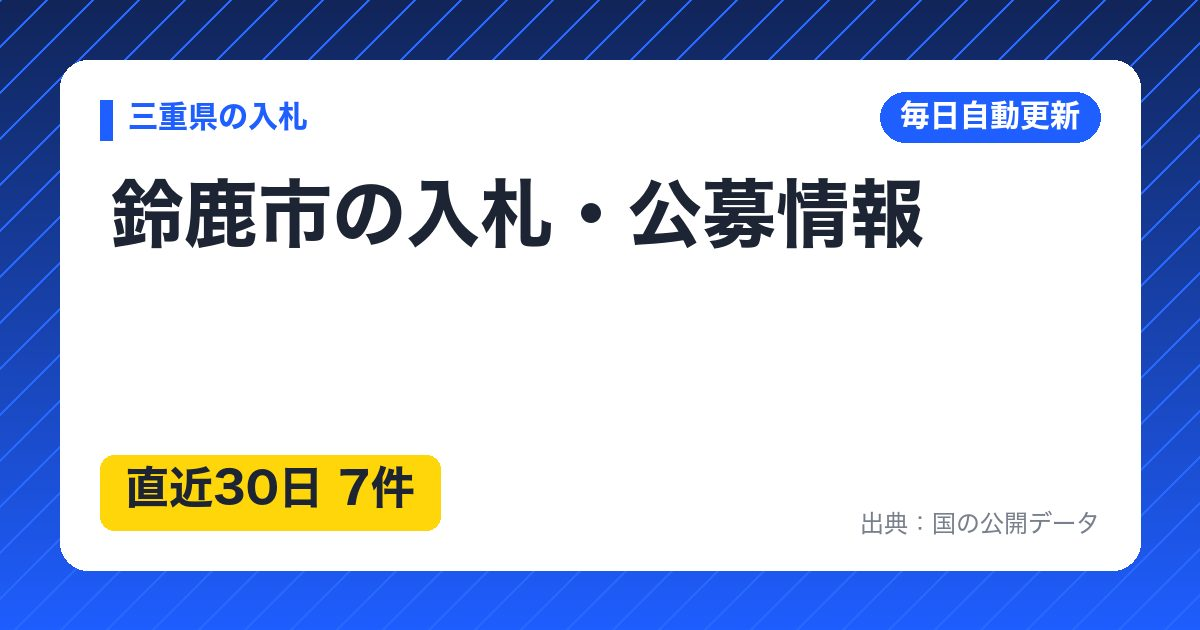
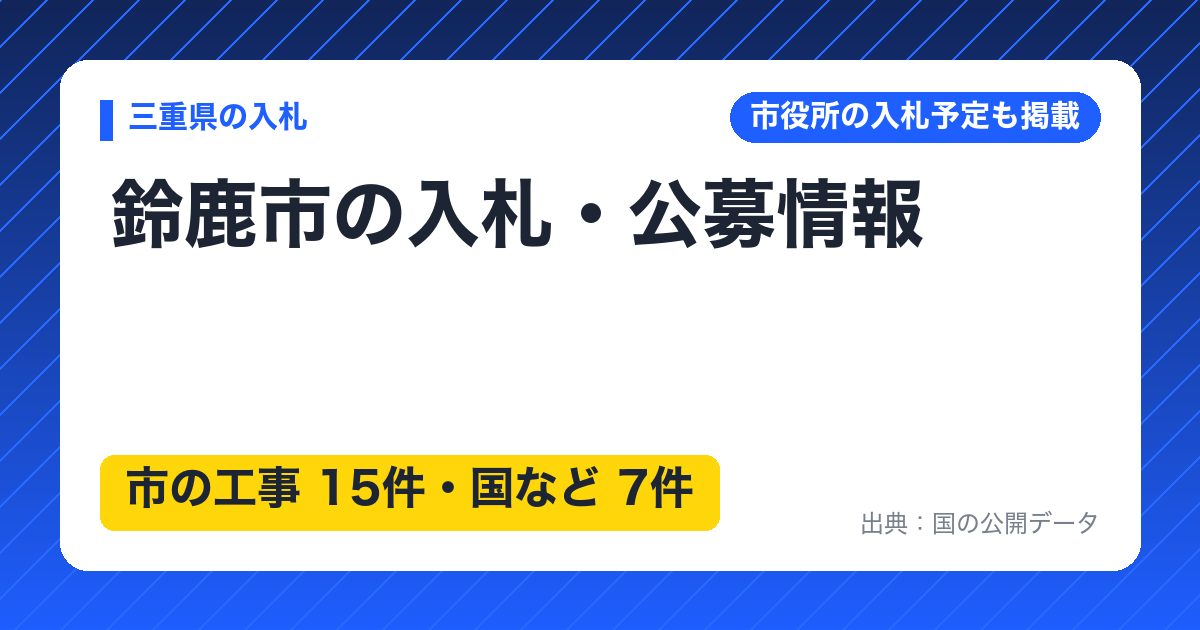
自動更新 2026-11-17 22:21

Changed region(s): [[0.0925, 0.6937, 0.6167, 0.8444], [0.5858, 0.1206, 0.925, 0.2413]]

diff --git a/c/mie_ebc4e813.html b/c/mie_ebc4e813.html
@@ -1,0 +1,40 @@
+<!doctype html><html lang="ja"><head><meta charset="utf-8"><meta name="viewport" content="width=device-width,initial-scale=1">
+<title>伊賀市の入札情報【毎日更新】三重県伊賀市の工事・物品・役務の公告一覧</title><meta name="description" content="三重県伊賀市で直近30日に公告された入札・公募0件の一覧。毎日自動更新。"><style>*{box-sizing:border-box}html,body{max-width:100%;overflow-x:hidden}main,.it,.ad,.box,footer,h1{overflow-wrap:anywhere}
+body{margin:0;background:#f6f7f9;color:#1d2433;font-family:-apple-system,"Hiragino Sans",sans-serif;line-height:1.6}
+main{max-width:860px;margin:auto;padding:18px}h1{font-size:22px;margin:6px 0}.sub{color:#5b6475;font-size:13px}
+nav a{display:inline-block;margin:4px 6px 4px 0;padding:4px 10px;background:#fff;border:1px solid #d8dde6;border-radius:16px;font-size:13px;color:#1d2433;text-decoration:none}
+nav a.on{background:#1f5eff;color:#fff;border-color:#1f5eff}
+h2{font-size:17px;margin:24px 0 8px;border-left:4px solid #1f5eff;padding-left:8px}
+.it{background:#fff;border:1px solid #e3e7ee;border-radius:10px;padding:10px 12px;margin:8px 0}
+.it a{color:#1d2433;font-weight:600;text-decoration:none}.it a:hover{text-decoration:underline}
+.meta{font-size:12px;color:#5b6475}.tag{display:inline-block;font-size:11px;padding:0 6px;border-radius:4px;margin-right:6px;color:#fff}
+.t工事{background:#e8590c}.t物品{background:#2b8a3e}.t役務{background:#1971c2}.tその他{background:#868e96}
+.sm{font-size:12px;color:#7a8394;margin-top:2px}.box{background:#fff;border:1px solid #e3e7ee;border-radius:10px;padding:12px 14px;font-size:13px}
+.ad{background:#fffbea;border:1px solid #f1e3a6;border-radius:10px;padding:10px 12px;margin:14px 0;font-size:13px}.ad b{font-size:11px;color:#8a6d00;margin-right:6px}.ad a{color:#0b5cad}.ad div{margin:4px 0}
+.hero{width:100%;height:auto;border-radius:12px;margin:6px 0 10px;display:block}.bn{text-align:center;margin:18px 0}.bnl{font-size:11px;color:#8a6d00;margin-bottom:4px}.bn img{max-width:100%;height:auto}
+footer{font-size:11px;color:#7a8394;margin:30px 0}</style><meta property="og:type" content="website"><meta property="og:title" content="伊賀市の入札情報【毎日更新】三重県伊賀市の工事・物品・役務の公告一覧"><meta property="og:description" content="三重県伊賀市で直近30日に公告された入札・公募0件の一覧。毎日自動更新。"><meta property="og:image" content="https://djyosk-bot.github.io/tokai-nyusatsu/c/mie_ebc4e813.jpg"><meta name="twitter:card" content="summary_large_image"><meta name="twitter:image" content="https://djyosk-bot.github.io/tokai-nyusatsu/c/mie_ebc4e813.jpg"></head><body><main>
+<div class="sub"><a href="../index.html">東海の入札まとめ</a> › <a href="../mie.html">三重県</a></div>
+<h1>伊賀市の入札・公募情報【毎日更新】</h1>
+<img class="hero" src="mie_ebc4e813.jpg" alt="伊賀市の入札" width="1200" height="630" loading="eager">
+<div class="sub">三重県伊賀市の入札情報（市役所の工事の入札予定＋国の機関などの公告）</div>
+<div class="ad"><b>広告</b>入札参加・技術者の配置に：<div>・<a href="https://px.a8.net/svt/ejp?a8mat=4BGNCK+DKSWFM+4ASS+64RJ6" rel="nofollow">施工管理技士の受験対策 通信講座（独学サポート事務局）</a> <img border="0" width="1" height="1" src="https://www14.a8.net/0.gif?a8mat=4BGNCK+DKSWFM+4ASS+64RJ6" alt="">（1級・2級の土木・建築・電気・管工事に対応）</div></div>
+<h2>伊賀市役所の入札予定（工事）15件</h2><div class="sub">出典：伊賀市 入札情報システム。入札日の近い順。詳細・設計図書は<a href="https://www.ep-bis.supercals.jp/ebidPPIPublish/EjPPIj?KikanNO=2421600" rel="nofollow noopener" target="_blank">伊賀市の入札情報システム</a>で確認してください。</div>
+<div class="it"><span class="tag t工事">工事</span><b>令和８年災害 Ｒ８国災第９９号 二級市町村道東高倉高旗線道路災害復旧工事</b><div class="meta">入札予定日 2026-11-20｜工事</div></div>
+<div class="it"><span class="tag t工事">工事</span><b>令和８年災害 Ｒ８国災第１０３号 二級市町村道東高倉高旗線道路災害復旧工事</b><div class="meta">入札予定日 2026-11-20｜工事</div></div>
+<div class="it"><span class="tag t工事">工事</span><b>令和８年度 臨時地方道整備事業（緊自債） 市道平田出後線舗装修繕工事</b><div class="meta">入札予定日 2026-11-20｜工事</div></div>
+<div class="it"><span class="tag t工事">工事</span><b>令和８年災害 Ｒ８国災第１０１号 その他市町村道米ノ川平線道路災害復旧工事</b><div class="meta">入札予定日 2026-11-20｜工事</div></div>
+<div class="it"><span class="tag t工事">工事</span><b>令和８年度 準用河川等整備事業（緊浚債）準用河川古野川浚渫工事</b><div class="meta">入札予定日 2026-11-20｜工事</div></div>
+<div class="it"><span class="tag t工事">工事</span><b>令和８年災 ２４－８ 広域農道（岡田工区）災害復旧工事</b><div class="meta">入札予定日 2026-11-20｜工事</div></div>
+<div class="it"><span class="tag t工事">工事</span><b>令和８年災 ２４－５ 滝谷用水路（槙山支線）災害復旧工事</b><div class="meta">入札予定日 2026-11-30｜工事</div></div>
+<div class="it"><span class="tag t工事">工事</span><b>令和８年災害Ｒ８国災第１００号 二級市町村道千貝土穴線道路災害復旧工事</b><div class="meta">入札予定日 2026-11-30｜工事</div></div>
+<div class="it"><span class="tag t工事">工事</span><b>令和８年度 準用河川等整備事業（緊浚債）準用河川森の前川浚渫工事</b><div class="meta">入札予定日 2026-11-30｜工事</div></div>
+<div class="it"><span class="tag t工事">工事</span><b>令和８年度 社会資本整備総合交付金事業 市道服部高畑寺田線道路改良工事</b><div class="meta">入札予定日 2026-11-30｜工事</div></div>
+<div class="it"><span class="tag t工事">工事</span><b>大山田Ｂ＆Ｇ海洋センタープール改修工事</b><div class="meta">入札予定日 2026-11-30｜工事</div></div>
+<div class="it"><span class="tag t工事">工事</span><b>伊賀市立上野総合市民病院本館２階医師更衣室改修工事</b><div class="meta">入札予定日 2026-11-30｜工事</div></div>
+<div class="it"><span class="tag t工事">工事</span><b>令和８年災 ２４－３ 滝谷用水路（水路橋）災害復旧工事</b><div class="meta">入札予定日 2026-11-30｜工事</div></div>
+<div class="it"><span class="tag t工事">工事</span><b>令和８年度 準用河川等整備事業（緊浚債）準用河川前川浚渫工事</b><div class="meta">入札予定日 2026-11-30｜工事</div></div>
+<div class="it"><span class="tag t工事">工事</span><b>令和８年度 伊賀市水道施設整備事業 消火栓新設工事（下柘植工区）</b><div class="meta">入札予定日 2026-12-01｜工事</div></div>
+<h2>国の機関などの入札（直近30日）0件</h2>
+<div class="bn"><div class="bnl">広告</div><a href="https://px.a8.net/svt/ejp?a8mat=4BGNCK+DKSWFM+4ASS+6D4GH" rel="nofollow"> <img border="0" width="300" height="250" alt="" src="https://www20.a8.net/svt/bgt?aid=261117236821&wid=001&eno=01&mid=s00000020062001069000&mc=1"></a> <img border="0" width="1" height="1" src="https://www12.a8.net/0.gif?a8mat=4BGNCK+DKSWFM+4ASS+6D4GH" alt=""></div>
+<footer>関連サイト：<a href="https://djyosk-bot.github.io/tokai-hojokin/">東海の補助金・助成金まとめ</a><br>最終更新 2026年11月17日 22:20（毎日自動更新）。出典：官公需情報ポータルサイト（中小企業庁）。掲載内容は要約です。当サイトはアフィリエイト広告（A8.net）を利用しています。入札参加の際は必ず発注機関の公告原文をご確認ください。</footer>
+</main></body></html>

diff --git a/c/mie_40a20bd2.html b/c/mie_40a20bd2.html
@@ -16,8 +16,25 @@ footer{font-size:11px;color:#7a8394;margin:30px 0}</style><meta property="og:typ
 <div class="sub"><a href="../index.html">東海の入札まとめ</a> › <a href="../mie.html">三重県</a></div>
 <h1>鈴鹿市の入札・公募情報【毎日更新】</h1>
 <img class="hero" src="mie_40a20bd2.jpg" alt="鈴鹿市の入札" width="1200" height="630" loading="eager">
-<div class="sub">三重県鈴鹿市で直近30日に公告された案件 7件</div>
+<div class="sub">三重県鈴鹿市の入札情報（市役所の工事の入札予定＋国の機関などの公告）</div>
 <div class="ad"><b>広告</b>入札参加・技術者の配置に：<div>・<a href="https://px.a8.net/svt/ejp?a8mat=4BGNCK+DKSWFM+4ASS+64RJ6" rel="nofollow">施工管理技士の受験対策 通信講座（独学サポート事務局）</a> <img border="0" width="1" height="1" src="https://www14.a8.net/0.gif?a8mat=4BGNCK+DKSWFM+4ASS+64RJ6" alt="">（1級・2級の土木・建築・電気・管工事に対応）</div></div>
+<h2>鈴鹿市役所の入札予定（工事）15件</h2><div class="sub">出典：鈴鹿市 入札情報システム。入札日の近い順。詳細・設計図書は<a href="https://www.ep-bis.supercals.jp/ebidPPIPublish/EjPPIj?KikanNO=2420700" rel="nofollow noopener" target="_blank">鈴鹿市の入札情報システム</a>で確認してください。</div>
+<div class="it"><span class="tag t工事">工事</span><b>徳居175号線舗装工事</b><div class="meta">入札予定日 2026-11-24｜事後審査｜予定価格（税別）13,224,000円</div></div>
+<div class="it"><span class="tag t工事">工事</span><b>一ノ宮15号線舗装工事</b><div class="meta">入札予定日 2026-11-24｜事後審査｜予定価格（税別）9,384,000円</div></div>
+<div class="it"><span class="tag t工事">工事</span><b>国府182号線舗装工事</b><div class="meta">入札予定日 2026-11-24｜事後審査｜予定価格（税別）9,306,000円</div></div>
+<div class="it"><span class="tag t工事">工事</span><b>三畑82号線舗装工事</b><div class="meta">入札予定日 2026-11-24｜事後審査｜予定価格（税別）6,169,000円</div></div>
+<div class="it"><span class="tag t工事">工事</span><b>平田公園管理施設整備工事</b><div class="meta">入札予定日 2026-11-24｜事後審査｜予定価格（税別）5,639,000円</div></div>
+<div class="it"><span class="tag t工事">工事</span><b>寺家二丁目公園外管理施設整備工事</b><div class="meta">入札予定日 2026-11-24｜事後審査｜予定価格（税別）4,738,000円</div></div>
+<div class="it"><span class="tag t工事">工事</span><b>西庄内157号線道路改良工事</b><div class="meta">入札予定日 2026-11-24｜事後審査｜予定価格（税別）4,532,000円</div></div>
+<div class="it"><span class="tag t工事">工事</span><b>市役所本庁舎市民ロビー耐火塗装改修工事</b><div class="meta">入札予定日 2026-11-24｜事後審査｜予定価格（税別）3,169,000円</div></div>
+<div class="it"><span class="tag t工事">工事</span><b>磯山配水管移設工事</b><div class="meta">入札予定日 2026-11-24｜事後審査｜予定価格（税別）36,500,000円</div></div>
+<div class="it"><span class="tag t工事">工事</span><b>岸岡配水管布設工事その２</b><div class="meta">入札予定日 2026-11-24｜事後審査｜予定価格（税別）4,400,000円</div></div>
+<div class="it"><span class="tag t工事">工事</span><b>一ノ宮配水管移設工事</b><div class="meta">入札予定日 2026-11-24｜事後審査｜予定価格（税別）3,300,000円</div></div>
+<div class="it"><span class="tag t工事">工事</span><b>平田東町外配水管布設工事</b><div class="meta">入札予定日 2026-11-24｜事後審査｜予定価格（税別）15,150,000円</div></div>
+<div class="it"><span class="tag t工事">工事</span><b>神戸六丁目52号線舗装工事</b><div class="meta">入札予定日 2026-11-30｜事後審査｜予定価格（税別）14,072,000円</div></div>
+<div class="it"><span class="tag t工事">工事</span><b>平田一丁目180号線舗装工事</b><div class="meta">入札予定日 2026-11-30｜事後審査｜予定価格（税別）6,495,000円</div></div>
+<div class="it"><span class="tag t工事">工事</span><b>箕田公民館外非常用放送設備設置工事</b><div class="meta">入札予定日 2026-11-30｜事後審査｜予定価格（税別）5,387,000円</div></div>
+<h2>国の機関などの入札（直近30日）7件</h2>
 <div class="it"><span class="tag tその他">その他</span><a href="https://www.suzuka-ct.ac.jp/uploads/2026/11/d8520ff3c9cdb669792cb6230d7d8a4a.pdf" rel="nofollow noopener" target="_blank">鈴鹿工業高等専門学校校舎地区及び学寮地区で使用する電気</a><div class="meta">独立行政法人国立高等専門学校機構鈴鹿工業高等専門学校｜公告 2026-11-16</div></div>
 <div class="it"><span class="tag tその他">その他</span><a href="https://suzuka.hosp.go.jp/pdf/koukoku_20261113_bedclothes.pdf" rel="nofollow noopener" target="_blank">寝具類賃貸借 一式</a><div class="meta">独立行政法人国立病院機構鈴鹿病院｜公告 2026-11-13</div></div>
 <div class="it"><span class="tag tその他">その他</span><a href="https://suzuka.hosp.go.jp/pdf/koukoku_20261113_cleaning.pdf" rel="nofollow noopener" target="_blank">院内清掃業務 一式</a><div class="meta">独立行政法人国立病院機構鈴鹿病院｜公告 2026-11-13</div></div>
@@ -26,5 +43,5 @@ footer{font-size:11px;color:#7a8394;margin:30px 0}</style><meta property="og:typ
 <div class="it"><span class="tag t役務">役務</span><a href="https://suzuka.hosp.go.jp/pdf/koukoku_20261026_medical-business.pdf" rel="nofollow noopener" target="_blank">医事業務委託</a><div class="meta">独立行政法人国立病院機構鈴鹿病院｜公告 2026-10-26</div></div>
 <div class="it"><span class="tag t役務">役務</span><a href="https://suzuka.hosp.go.jp/pdf/koukoku_20261020_boiler.pdf" rel="nofollow noopener" target="_blank">ボイラー業務委託</a><div class="meta">独立行政法人国立病院機構鈴鹿病院｜公告 2026-10-20</div></div>
 <div class="bn"><div class="bnl">広告</div><a href="https://px.a8.net/svt/ejp?a8mat=4BGNCK+DKSWFM+4ASS+6D4GH" rel="nofollow"> <img border="0" width="300" height="250" alt="" src="https://www20.a8.net/svt/bgt?aid=261117236821&wid=001&eno=01&mid=s00000020062001069000&mc=1"></a> <img border="0" width="1" height="1" src="https://www12.a8.net/0.gif?a8mat=4BGNCK+DKSWFM+4ASS+6D4GH" alt=""></div>
-<footer>関連サイト：<a href="https://djyosk-bot.github.io/tokai-hojokin/">東海の補助金・助成金まとめ</a><br>最終更新 2026年11月17日 22:08（毎日自動更新）。出典：官公需情報ポータルサイト（中小企業庁）。掲載内容は要約です。当サイトはアフィリエイト広告（A8.net）を利用しています。入札参加の際は必ず発注機関の公告原文をご確認ください。</footer>
+<footer>関連サイト：<a href="https://djyosk-bot.github.io/tokai-hojokin/">東海の補助金・助成金まとめ</a><br>最終更新 2026年11月17日 22:20（毎日自動更新）。出典：官公需情報ポータルサイト（中小企業庁）。掲載内容は要約です。当サイトはアフィリエイト広告（A8.net）を利用しています。入札参加の際は必ず発注機関の公告原文をご確認ください。</footer>
 </main></body></html>

diff --git a/c/mie_250c78e9.html b/c/mie_250c78e9.html
@@ -1,0 +1,27 @@
+<!doctype html><html lang="ja"><head><meta charset="utf-8"><meta name="viewport" content="width=device-width,initial-scale=1">
+<title>名張市の入札情報【毎日更新】三重県名張市の工事・物品・役務の公告一覧</title><meta name="description" content="三重県名張市で直近30日に公告された入札・公募0件の一覧。毎日自動更新。"><style>*{box-sizing:border-box}html,body{max-width:100%;overflow-x:hidden}main,.it,.ad,.box,footer,h1{overflow-wrap:anywhere}
+body{margin:0;background:#f6f7f9;color:#1d2433;font-family:-apple-system,"Hiragino Sans",sans-serif;line-height:1.6}
+main{max-width:860px;margin:auto;padding:18px}h1{font-size:22px;margin:6px 0}.sub{color:#5b6475;font-size:13px}
+nav a{display:inline-block;margin:4px 6px 4px 0;padding:4px 10px;background:#fff;border:1px solid #d8dde6;border-radius:16px;font-size:13px;color:#1d2433;text-decoration:none}
+nav a.on{background:#1f5eff;color:#fff;border-color:#1f5eff}
+h2{font-size:17px;margin:24px 0 8px;border-left:4px solid #1f5eff;padding-left:8px}
+.it{background:#fff;border:1px solid #e3e7ee;border-radius:10px;padding:10px 12px;margin:8px 0}
+.it a{color:#1d2433;font-weight:600;text-decoration:none}.it a:hover{text-decoration:underline}
+.meta{font-size:12px;color:#5b6475}.tag{display:inline-block;font-size:11px;padding:0 6px;border-radius:4px;margin-right:6px;color:#fff}
+.t工事{background:#e8590c}.t物品{background:#2b8a3e}.t役務{background:#1971c2}.tその他{background:#868e96}
+.sm{font-size:12px;color:#7a8394;margin-top:2px}.box{background:#fff;border:1px solid #e3e7ee;border-radius:10px;padding:12px 14px;font-size:13px}
+.ad{background:#fffbea;border:1px solid #f1e3a6;border-radius:10px;padding:10px 12px;margin:14px 0;font-size:13px}.ad b{font-size:11px;color:#8a6d00;margin-right:6px}.ad a{color:#0b5cad}.ad div{margin:4px 0}
+.hero{width:100%;height:auto;border-radius:12px;margin:6px 0 10px;display:block}.bn{text-align:center;margin:18px 0}.bnl{font-size:11px;color:#8a6d00;margin-bottom:4px}.bn img{max-width:100%;height:auto}
+footer{font-size:11px;color:#7a8394;margin:30px 0}</style><meta property="og:type" content="website"><meta property="og:title" content="名張市の入札情報【毎日更新】三重県名張市の工事・物品・役務の公告一覧"><meta property="og:description" content="三重県名張市で直近30日に公告された入札・公募0件の一覧。毎日自動更新。"><meta property="og:image" content="https://djyosk-bot.github.io/tokai-nyusatsu/c/mie_250c78e9.jpg"><meta name="twitter:card" content="summary_large_image"><meta name="twitter:image" content="https://djyosk-bot.github.io/tokai-nyusatsu/c/mie_250c78e9.jpg"></head><body><main>
+<div class="sub"><a href="../index.html">東海の入札まとめ</a> › <a href="../mie.html">三重県</a></div>
+<h1>名張市の入札・公募情報【毎日更新】</h1>
+<img class="hero" src="mie_250c78e9.jpg" alt="名張市の入札" width="1200" height="630" loading="eager">
+<div class="sub">三重県名張市の入札情報（市役所の工事の入札予定＋国の機関などの公告）</div>
+<div class="ad"><b>広告</b>入札参加・技術者の配置に：<div>・<a href="https://px.a8.net/svt/ejp?a8mat=4BGNCK+DKSWFM+4ASS+64RJ6" rel="nofollow">施工管理技士の受験対策 通信講座（独学サポート事務局）</a> <img border="0" width="1" height="1" src="https://www14.a8.net/0.gif?a8mat=4BGNCK+DKSWFM+4ASS+64RJ6" alt="">（1級・2級の土木・建築・電気・管工事に対応）</div></div>
+<h2>名張市役所の入札予定（工事）2件</h2><div class="sub">出典：名張市 入札情報システム。入札日の近い順。詳細・設計図書は<a href="https://www.ep-bis.supercals.jp/ebidPPIPublish/EjPPIj?KikanNO=2420800" rel="nofollow noopener" target="_blank">名張市の入札情報システム</a>で確認してください。</div>
+<div class="it"><span class="tag t工事">工事</span><b>石倉井堰改修工事</b><div class="meta">入札予定日 2026-11-26｜一般競争｜予定価格（税別）7,506,000円</div></div>
+<div class="it"><span class="tag t工事">工事</span><b>国道368号道路改良工事に伴う配水管移設工事</b><div class="meta">入札予定日 2026-11-26｜一般競争｜予定価格（税別）9,568,000円</div></div>
+<h2>国の機関などの入札（直近30日）0件</h2>
+<div class="bn"><div class="bnl">広告</div><a href="https://px.a8.net/svt/ejp?a8mat=4BGNCK+DKSWFM+4ASS+6D4GH" rel="nofollow"> <img border="0" width="300" height="250" alt="" src="https://www20.a8.net/svt/bgt?aid=261117236821&wid=001&eno=01&mid=s00000020062001069000&mc=1"></a> <img border="0" width="1" height="1" src="https://www12.a8.net/0.gif?a8mat=4BGNCK+DKSWFM+4ASS+6D4GH" alt=""></div>
+<footer>関連サイト：<a href="https://djyosk-bot.github.io/tokai-hojokin/">東海の補助金・助成金まとめ</a><br>最終更新 2026年11月17日 22:20（毎日自動更新）。出典：官公需情報ポータルサイト（中小企業庁）。掲載内容は要約です。当サイトはアフィリエイト広告（A8.net）を利用しています。入札参加の際は必ず発注機関の公告原文をご確認ください。</footer>
+</main></body></html>

diff --git a/mie.html b/mie.html
@@ -17,7 +17,7 @@ footer{font-size:11px;color:#7a8394;margin:30px 0}</style><meta property="og:typ
 <img class="hero" src="og/mie.jpg" alt="三重県の入札" width="1200" height="630" loading="eager">
 <div class="sub">直近30日に公告された案件 64件（工事 13／物品 2／役務 14）</div>
 <nav><a href="mie.html" class=on>三重県</a><a href="aichi.html">愛知県</a><a href="gifu.html">岐阜県</a><a href="shizuoka.html">静岡県</a></nav>
-<div class="box">市町村別：<a href="c/mie_5d42512f.html">津市(24)</a>、<a href="c/mie_40a20bd2.html">鈴鹿市(7)</a>、<a href="c/mie_5939b5a9.html">尾鷲市(6)</a>、<a href="c/mie_feebc0e6.html">桑名市(5)</a>、<a href="c/mie_abe04227.html">志摩市(5)</a>、<a href="c/mie_4076c049.html">木曾岬町(4)</a>、<a href="c/mie_54257b0b.html">亀山市(2)</a></div>
+<div class="box">市町村別：<a href="c/mie_5d42512f.html">津市(24)</a>、<a href="c/mie_40a20bd2.html">鈴鹿市(22)</a>、<a href="c/mie_5939b5a9.html">尾鷲市(6)</a>、<a href="c/mie_feebc0e6.html">桑名市(5)</a>、<a href="c/mie_abe04227.html">志摩市(5)</a>、<a href="c/mie_4076c049.html">木曾岬町(4)</a>、<a href="c/mie_54257b0b.html">亀山市(2)</a>、<a href="c/mie_250c78e9.html">名張市(2)</a>、<a href="c/mie_ebc4e813.html">伊賀市(15)</a></div>
 <div class="ad"><b>広告</b>入札参加・技術者の配置に：<div>・<a href="https://px.a8.net/svt/ejp?a8mat=4BGNCK+DKSWFM+4ASS+64RJ6" rel="nofollow">施工管理技士の受験対策 通信講座（独学サポート事務局）</a> <img border="0" width="1" height="1" src="https://www14.a8.net/0.gif?a8mat=4BGNCK+DKSWFM+4ASS+64RJ6" alt="">（1級・2級の土木・建築・電気・管工事に対応）</div></div>
 <div class="box">件数の多い地域：津市(24)、鈴鹿市(7)、尾鷲市(6)、桑名市(5)、志摩市(5)、木曾岬町(4)<br>国の機関・独立行政法人・自治体の案件を、公告日の新しい順に並べています。</div>
 <h2>工事（13件）</h2>
@@ -89,5 +89,5 @@ footer{font-size:11px;color:#7a8394;margin:30px 0}</style><meta property="og:typ
 <div class="it"><span class="tag tその他">その他</span><a href="https://miechuo.hosp.go.jp/pdf/chotatu/677.pdf" rel="nofollow noopener" target="_blank">緊急車両 一式</a><div class="meta">独立行政法人国立病院機構三重中央医療センター（津市）｜公告 2026-10-19</div></div>
 <div class="it"><span class="tag tその他">その他</span><a href="https://miechuo.hosp.go.jp/pdf/chotatu/678.pdf" rel="nofollow noopener" target="_blank">免疫測定装置 一式</a><div class="meta">独立行政法人国立病院機構三重中央医療センター（津市）｜公告 2026-10-19</div></div>
 <div class="bn"><div class="bnl">広告</div><a href="https://px.a8.net/svt/ejp?a8mat=4BGNCK+DKSWFM+4ASS+6D4GH" rel="nofollow"> <img border="0" width="300" height="250" alt="" src="https://www20.a8.net/svt/bgt?aid=261117236821&wid=001&eno=01&mid=s00000020062001069000&mc=1"></a> <img border="0" width="1" height="1" src="https://www12.a8.net/0.gif?a8mat=4BGNCK+DKSWFM+4ASS+6D4GH" alt=""></div>
-<footer>関連サイト：<a href="https://djyosk-bot.github.io/tokai-hojokin/">東海の補助金・助成金まとめ</a><br>最終更新 2026年11月17日 22:08（毎日自動更新）。出典：官公需情報ポータルサイト（中小企業庁）。掲載内容は要約です。当サイトはアフィリエイト広告（A8.net）を利用しています。入札参加の際は必ず発注機関の公告原文をご確認ください。</footer>
+<footer>関連サイト：<a href="https://djyosk-bot.github.io/tokai-hojokin/">東海の補助金・助成金まとめ</a><br>最終更新 2026年11月17日 22:20（毎日自動更新）。出典：官公需情報ポータルサイト（中小企業庁）。掲載内容は要約です。当サイトはアフィリエイト広告（A8.net）を利用しています。入札参加の際は必ず発注機関の公告原文をご確認ください。</footer>
 </main></body></html>

diff --git a/c/shizuoka_bc082013.html b/c/shizuoka_bc082013.html
@@ -16,7 +16,7 @@ footer{font-size:11px;color:#7a8394;margin:30px 0}</style><meta property="og:typ
 <div class="sub"><a href="../index.html">東海の入札まとめ</a> › <a href="../shizuoka.html">静岡県</a></div>
 <h1>磐田市の入札・公募情報【毎日更新】</h1>
 <img class="hero" src="shizuoka_bc082013.jpg" alt="磐田市の入札" width="1200" height="630" loading="eager">
-<div class="sub">静岡県磐田市で直近30日に公告された案件 14件</div>
+<div class="sub">静岡県磐田市の入札情報（市役所の工事の入札予定＋国の機関などの公告）</div>
 <div class="ad"><b>広告</b>入札参加・技術者の配置に：<div>・<a href="https://px.a8.net/svt/ejp?a8mat=4BGNCK+DKSWFM+4ASS+64RJ6" rel="nofollow">施工管理技士の受験対策 通信講座（独学サポート事務局）</a> <img border="0" width="1" height="1" src="https://www14.a8.net/0.gif?a8mat=4BGNCK+DKSWFM+4ASS+64RJ6" alt="">（1級・2級の土木・建築・電気・管工事に対応）</div></div>
 <div class="it"><span class="tag t工事">工事</span><a href="https://www.city.iwata.shizuoka.jp/_res/projects/default_project/_page_/001/017/152/kokoku1112.pdf" rel="nofollow noopener" target="_blank">令和8年度 磐田市老人ホーム楽寿荘玄関庇雨漏り修繕工事制限付一般競争入札</a><div class="meta">静岡県磐田市｜公告 2026-11-12</div></div>
 <div class="it"><span class="tag tその他">その他</span><a href="https://www.city.iwata.shizuoka.jp/_res/projects/default_project/_page_/001/005/787/R08.75kokoku.xlsx" rel="nofollow noopener" target="_blank">第75号 総務課 投票用紙記載台</a><div class="meta">静岡県磐田市｜公告 2026-11-04</div></div>
@@ -33,5 +33,5 @@ footer{font-size:11px;color:#7a8394;margin:30px 0}</style><meta property="og:typ
 <div class="it"><span class="tag t役務">役務</span><a href="https://www.city.iwata.shizuoka.jp/_res/projects/default_project/_page_/001/017/105/koukoku.pdf" rel="nofollow noopener" target="_blank">令和8年度 静岡県・磐田市・袋井市・森町総合防災訓練会場（豊岡中央交流センター・福田漁港）設営等業務委託 入札</a><div class="meta">静岡県磐田市｜公告 2026-10-23</div></div>
 <div class="it"><span class="tag t役務">役務</span><a href="https://www.city.iwata.shizuoka.jp/_res/projects/default_project/_page_/001/017/095/2026.2-1koukokubun.pdf" rel="nofollow noopener" target="_blank">令和8年度 自動車騒音常時監視に係る騒音調査及び面的評価業務委託 入札</a><div class="meta">静岡県磐田市｜公告 2026-10-21</div></div>
 <div class="bn"><div class="bnl">広告</div><a href="https://px.a8.net/svt/ejp?a8mat=4BGNCK+DKSWFM+4ASS+6D4GH" rel="nofollow"> <img border="0" width="300" height="250" alt="" src="https://www20.a8.net/svt/bgt?aid=261117236821&wid=001&eno=01&mid=s00000020062001069000&mc=1"></a> <img border="0" width="1" height="1" src="https://www12.a8.net/0.gif?a8mat=4BGNCK+DKSWFM+4ASS+6D4GH" alt=""></div>
-<footer>関連サイト：<a href="https://djyosk-bot.github.io/tokai-hojokin/">東海の補助金・助成金まとめ</a><br>最終更新 2026年11月17日 22:08（毎日自動更新）。出典：官公需情報ポータルサイト（中小企業庁）。掲載内容は要約です。当サイトはアフィリエイト広告（A8.net）を利用しています。入札参加の際は必ず発注機関の公告原文をご確認ください。</footer>
+<footer>関連サイト：<a href="https://djyosk-bot.github.io/tokai-hojokin/">東海の補助金・助成金まとめ</a><br>最終更新 2026年11月17日 22:20（毎日自動更新）。出典：官公需情報ポータルサイト（中小企業庁）。掲載内容は要約です。当サイトはアフィリエイト広告（A8.net）を利用しています。入札参加の際は必ず発注機関の公告原文をご確認ください。</footer>
 </main></body></html>

diff --git a/c/gifu_0be07df0.html b/c/gifu_0be07df0.html
@@ -16,7 +16,7 @@ footer{font-size:11px;color:#7a8394;margin:30px 0}</style><meta property="og:typ
 <div class="sub"><a href="../index.html">東海の入札まとめ</a> › <a href="../gifu.html">岐阜県</a></div>
 <h1>土岐市の入札・公募情報【毎日更新】</h1>
 <img class="hero" src="gifu_0be07df0.jpg" alt="土岐市の入札" width="1200" height="630" loading="eager">
-<div class="sub">岐阜県土岐市で直近30日に公告された案件 21件</div>
+<div class="sub">岐阜県土岐市の入札情報（市役所の工事の入札予定＋国の機関などの公告）</div>
 <div class="ad"><b>広告</b>入札参加・技術者の配置に：<div>・<a href="https://px.a8.net/svt/ejp?a8mat=4BGNCK+DKSWFM+4ASS+64RJ6" rel="nofollow">施工管理技士の受験対策 通信講座（独学サポート事務局）</a> <img border="0" width="1" height="1" src="https://www14.a8.net/0.gif?a8mat=4BGNCK+DKSWFM+4ASS+64RJ6" alt="">（1級・2級の土木・建築・電気・管工事に対応）</div></div>
 <div class="it"><span class="tag tその他">その他</span><a href="https://www.nifs.ac.jp/procurement/kokoku1116_Photron.pdf" rel="nofollow noopener" target="_blank">高速度カメラ 株式会社フォトロン製 一式</a><div class="meta">大学共同利用機関法人自然科学研究機構核融合科学研究所｜公告 2026-11-16</div></div>
 <div class="it"><span class="tag tその他">その他</span><a href="https://www.nifs.ac.jp/procurement/kokoku1113.pdf" rel="nofollow noopener" target="_blank">ターボ分子ドラッグポンプ ファイファーバキューム社製 一式</a><div class="meta">大学共同利用機関法人自然科学研究機構核融合科学研究所｜公告 2026-11-13</div></div>
@@ -40,5 +40,5 @@ footer{font-size:11px;color:#7a8394;margin:30px 0}</style><meta property="og:typ
 <div class="it"><span class="tag tその他">その他</span><a href="https://www.nifs.ac.jp/procurement/kokoku_20261019.pdf" rel="nofollow noopener" target="_blank">Pythonチュートリアル動画の整備 一式</a><div class="meta">大学共同利用機関法人自然科学研究機構核融合科学研究所｜公告 2026-10-19</div></div>
 <div class="it"><span class="tag tその他">その他</span><a href="https://www.nifs.ac.jp/procurement/kokoku20261019_t.pdf" rel="nofollow noopener" target="_blank">ミリ波計測器部品 米国 Pasternack社製 一式</a><div class="meta">大学共同利用機関法人自然科学研究機構核融合科学研究所｜公告 2026-10-19</div></div>
 <div class="bn"><div class="bnl">広告</div><a href="https://px.a8.net/svt/ejp?a8mat=4BGNCK+DKSWFM+4ASS+6D4GH" rel="nofollow"> <img border="0" width="300" height="250" alt="" src="https://www20.a8.net/svt/bgt?aid=261117236821&wid=001&eno=01&mid=s00000020062001069000&mc=1"></a> <img border="0" width="1" height="1" src="https://www12.a8.net/0.gif?a8mat=4BGNCK+DKSWFM+4ASS+6D4GH" alt=""></div>
-<footer>関連サイト：<a href="https://djyosk-bot.github.io/tokai-hojokin/">東海の補助金・助成金まとめ</a><br>最終更新 2026年11月17日 22:08（毎日自動更新）。出典：官公需情報ポータルサイト（中小企業庁）。掲載内容は要約です。当サイトはアフィリエイト広告（A8.net）を利用しています。入札参加の際は必ず発注機関の公告原文をご確認ください。</footer>
+<footer>関連サイト：<a href="https://djyosk-bot.github.io/tokai-hojokin/">東海の補助金・助成金まとめ</a><br>最終更新 2026年11月17日 22:20（毎日自動更新）。出典：官公需情報ポータルサイト（中小企業庁）。掲載内容は要約です。当サイトはアフィリエイト広告（A8.net）を利用しています。入札参加の際は必ず発注機関の公告原文をご確認ください。</footer>
 </main></body></html>

diff --git a/c/gifu_b4e474f7.html b/c/gifu_b4e474f7.html
@@ -16,7 +16,7 @@ footer{font-size:11px;color:#7a8394;margin:30px 0}</style><meta property="og:typ
 <div class="sub"><a href="../index.html">東海の入札まとめ</a> › <a href="../gifu.html">岐阜県</a></div>
 <h1>岐阜市の入札・公募情報【毎日更新】</h1>
 <img class="hero" src="gifu_b4e474f7.jpg" alt="岐阜市の入札" width="1200" height="630" loading="eager">
-<div class="sub">岐阜県岐阜市で直近30日に公告された案件 41件</div>
+<div class="sub">岐阜県岐阜市の入札情報（市役所の工事の入札予定＋国の機関などの公告）</div>
 <div class="ad"><b>広告</b>入札参加・技術者の配置に：<div>・<a href="https://px.a8.net/svt/ejp?a8mat=4BGNCK+DKSWFM+4ASS+64RJ6" rel="nofollow">施工管理技士の受験対策 通信講座（独学サポート事務局）</a> <img border="0" width="1" height="1" src="https://www14.a8.net/0.gif?a8mat=4BGNCK+DKSWFM+4ASS+64RJ6" alt="">（1級・2級の土木・建築・電気・管工事に対応）</div></div>
 <div class="it"><span class="tag t工事">工事</span><a href="https://www.city.gifu.lg.jp/_res/projects/default_project/_page_/001/042/471/r08_161k.pdf" rel="nofollow noopener" target="_blank">11月16日 舗装 1827 道路舗装工事（区画道路2号）</a><div class="meta">岐阜県岐阜市｜公告 2026-11-16</div></div>
 <div class="it"><span class="tag tその他">その他</span><a href="https://www.city.gifu.lg.jp/_res/projects/default_project/_page_/001/042/537/01_rfiichiran.pdf" rel="nofollow noopener" target="_blank">内部事務系システムの次期システム更新に関する情報提供依頼（RFI）</a><div class="meta">岐阜県岐阜市｜公告 2026-11-13</div></div>
@@ -60,5 +60,5 @@ footer{font-size:11px;color:#7a8394;margin:30px 0}</style><meta property="og:typ
 <div class="it"><span class="tag t役務">役務</span><a href="https://www.city.gifu.lg.jp/_res/projects/default_project/_page_/001/042/235/r08_149k.pdf" rel="nofollow noopener" target="_blank">10月19日 業務委託 1739 令和9～12年度岐阜市立長森南中学校給食調理業務委託</a><div class="meta">岐阜県岐阜市｜公告 2026-10-19</div></div>
 <div class="it"><span class="tag t役務">役務</span><a href="https://www.city.gifu.lg.jp/_res/projects/default_project/_page_/001/042/120/r08_147k.pdf" rel="nofollow noopener" target="_blank">10月19日 業務委託 1733 令和9～12年度岐阜市立厚見中学校給食調理業務委託</a><div class="meta">岐阜県岐阜市｜公告 2026-10-19</div></div>
 <div class="bn"><div class="bnl">広告</div><a href="https://px.a8.net/svt/ejp?a8mat=4BGNCK+DKSWFM+4ASS+6D4GH" rel="nofollow"> <img border="0" width="300" height="250" alt="" src="https://www20.a8.net/svt/bgt?aid=261117236821&wid=001&eno=01&mid=s00000020062001069000&mc=1"></a> <img border="0" width="1" height="1" src="https://www12.a8.net/0.gif?a8mat=4BGNCK+DKSWFM+4ASS+6D4GH" alt=""></div>
-<footer>関連サイト：<a href="https://djyosk-bot.github.io/tokai-hojokin/">東海の補助金・助成金まとめ</a><br>最終更新 2026年11月17日 22:08（毎日自動更新）。出典：官公需情報ポータルサイト（中小企業庁）。掲載内容は要約です。当サイトはアフィリエイト広告（A8.net）を利用しています。入札参加の際は必ず発注機関の公告原文をご確認ください。</footer>
+<footer>関連サイト：<a href="https://djyosk-bot.github.io/tokai-hojokin/">東海の補助金・助成金まとめ</a><br>最終更新 2026年11月17日 22:20（毎日自動更新）。出典：官公需情報ポータルサイト（中小企業庁）。掲載内容は要約です。当サイトはアフィリエイト広告（A8.net）を利用しています。入札参加の際は必ず発注機関の公告原文をご確認ください。</footer>
 </main></body></html>

diff --git a/c/shizuoka_dba649b9.html b/c/shizuoka_dba649b9.html
@@ -16,7 +16,7 @@ footer{font-size:11px;color:#7a8394;margin:30px 0}</style><meta property="og:typ
 <div class="sub"><a href="../index.html">東海の入札まとめ</a> › <a href="../shizuoka.html">静岡県</a></div>
 <h1>浜松市の入札・公募情報【毎日更新】</h1>
 <img class="hero" src="shizuoka_dba649b9.jpg" alt="浜松市の入札" width="1200" height="630" loading="eager">
-<div class="sub">静岡県浜松市で直近30日に公告された案件 23件</div>
+<div class="sub">静岡県浜松市の入札情報（市役所の工事の入札予定＋国の機関などの公告）</div>
 <div class="ad"><b>広告</b>入札参加・技術者の配置に：<div>・<a href="https://px.a8.net/svt/ejp?a8mat=4BGNCK+DKSWFM+4ASS+64RJ6" rel="nofollow">施工管理技士の受験対策 通信講座（独学サポート事務局）</a> <img border="0" width="1" height="1" src="https://www14.a8.net/0.gif?a8mat=4BGNCK+DKSWFM+4ASS+64RJ6" alt="">（1級・2級の土木・建築・電気・管工事に対応）</div></div>
 <div class="it"><span class="tag tその他">その他</span><a href="https://www.rinya.maff.go.jp/kanto/apply/publicsale/tenryu/261113.html" rel="nofollow noopener" target="_blank">天竜地区砕石等単価契約</a><div class="meta">林野庁関東森林管理局天竜森林管理署｜公告 2026-11-13</div></div>
 <div class="it"><span class="tag tその他">その他</span><a href="https://hamamatsuh.johas.go.jp/data/media/tyoutatu/2611/261111_Centrifugal_pump_drive.pdf" rel="nofollow noopener" target="_blank">体外循環装置用遠心ポンプ駆動装置一式</a><div class="meta">独立行政法人労働者健康安全機構浜松労災病院｜公告 2026-11-11</div></div>
@@ -42,5 +42,5 @@ footer{font-size:11px;color:#7a8394;margin:30px 0}</style><meta property="og:typ
 <div class="it"><span class="tag tその他">その他</span><a href="https://www.hama-med.ac.jp/about-us/disclosure-info/procurement-info/ej2027_aacnacc21.zip" rel="nofollow noopener" target="_blank">電子ジャーナル（AACN Advanced Critical Care外２１点）の利用.zip</a><div class="meta">国立大学法人浜松医科大学｜公告 2026-10-20</div></div>
 <div class="it"><span class="tag tその他">その他</span><a href="https://www.hama-med.ac.jp/about-us/disclosure-info/procurement-info/ej2027_cr26.zip" rel="nofollow noopener" target="_blank">電子ジャーナル（Cancer Research 外２６点）の利用.zip</a><div class="meta">国立大学法人浜松医科大学｜公告 2026-10-20</div></div>
 <div class="bn"><div class="bnl">広告</div><a href="https://px.a8.net/svt/ejp?a8mat=4BGNCK+DKSWFM+4ASS+6D4GH" rel="nofollow"> <img border="0" width="300" height="250" alt="" src="https://www20.a8.net/svt/bgt?aid=261117236821&wid=001&eno=01&mid=s00000020062001069000&mc=1"></a> <img border="0" width="1" height="1" src="https://www12.a8.net/0.gif?a8mat=4BGNCK+DKSWFM+4ASS+6D4GH" alt=""></div>
-<footer>関連サイト：<a href="https://djyosk-bot.github.io/tokai-hojokin/">東海の補助金・助成金まとめ</a><br>最終更新 2026年11月17日 22:08（毎日自動更新）。出典：官公需情報ポータルサイト（中小企業庁）。掲載内容は要約です。当サイトはアフィリエイト広告（A8.net）を利用しています。入札参加の際は必ず発注機関の公告原文をご確認ください。</footer>
+<footer>関連サイト：<a href="https://djyosk-bot.github.io/tokai-hojokin/">東海の補助金・助成金まとめ</a><br>最終更新 2026年11月17日 22:20（毎日自動更新）。出典：官公需情報ポータルサイト（中小企業庁）。掲載内容は要約です。当サイトはアフィリエイト広告（A8.net）を利用しています。入札参加の際は必ず発注機関の公告原文をご確認ください。</footer>
 </main></body></html>

diff --git a/c/aichi_bf9c176a.html b/c/aichi_bf9c176a.html
@@ -16,7 +16,7 @@ footer{font-size:11px;color:#7a8394;margin:30px 0}</style><meta property="og:typ
 <div class="sub"><a href="../index.html">東海の入札まとめ</a> › <a href="../aichi.html">愛知県</a></div>
 <h1>名古屋市の入札・公募情報【毎日更新】</h1>
 <img class="hero" src="aichi_bf9c176a.jpg" alt="名古屋市の入札" width="1200" height="630" loading="eager">
-<div class="sub">愛知県名古屋市で直近30日に公告された案件 71件</div>
+<div class="sub">愛知県名古屋市の入札情報（市役所の工事の入札予定＋国の機関などの公告）</div>
 <div class="ad"><b>広告</b>入札参加・技術者の配置に：<div>・<a href="https://px.a8.net/svt/ejp?a8mat=4BGNCK+DKSWFM+4ASS+64RJ6" rel="nofollow">施工管理技士の受験対策 通信講座（独学サポート事務局）</a> <img border="0" width="1" height="1" src="https://www14.a8.net/0.gif?a8mat=4BGNCK+DKSWFM+4ASS+64RJ6" alt="">（1級・2級の土木・建築・電気・管工事に対応）</div></div>
 <div class="it"><span class="tag tその他">その他</span><a href="https://www.ur-net.go.jp/orders/central/pdf/order_44478_1.pdf" rel="nofollow noopener" target="_blank">令和８年度団地再生事業に係る居住者説明等業務 （令和8年11月16日）</a><div class="meta">独立行政法人都市再生機構中部支社｜公告 2026-11-16</div></div>
 <div class="it"><span class="tag t物品">物品</span><a href="https://www.cbr.mlit.go.jp/contract/buppin/bukoukoku/data/pdf/GzvdzmhII620261110_23.pdf" rel="nofollow noopener" target="_blank">令和８年度 紀勢国道事務所庁舎外１３箇所で使用する電気</a><div class="meta">国土交通省中部地方整備局｜公告 2026-11-16</div></div>
@@ -90,5 +90,5 @@ footer{font-size:11px;color:#7a8394;margin:30px 0}</style><meta property="og:typ
 <div class="it"><span class="tag tその他">その他</span><a href="https://nagoya.hosp.go.jp/cyoutatu/nyu_276.pdf" rel="nofollow noopener" target="_blank">看護衣等 看護衣（女）ツーピース半袖白×ピンク 外37件</a><div class="meta">独立行政法人国立病院機構名古屋医療センター｜公告 2026-10-19</div></div>
 <div class="it"><span class="tag t工事">工事</span><a href="https://www.kensatsu.go.jp/content/001357620.pdf" rel="nofollow noopener" target="_blank">入札結果（名古屋地方検察庁７階執務室模様替工事）</a><div class="meta">検察庁名古屋地方検察庁｜公告 2026-10-19</div></div>
 <div class="bn"><div class="bnl">広告</div><a href="https://px.a8.net/svt/ejp?a8mat=4BGNCK+DKSWFM+4ASS+6D4GH" rel="nofollow"> <img border="0" width="300" height="250" alt="" src="https://www20.a8.net/svt/bgt?aid=261117236821&wid=001&eno=01&mid=s00000020062001069000&mc=1"></a> <img border="0" width="1" height="1" src="https://www12.a8.net/0.gif?a8mat=4BGNCK+DKSWFM+4ASS+6D4GH" alt=""></div>
-<footer>関連サイト：<a href="https://djyosk-bot.github.io/tokai-hojokin/">東海の補助金・助成金まとめ</a><br>最終更新 2026年11月17日 22:08（毎日自動更新）。出典：官公需情報ポータルサイト（中小企業庁）。掲載内容は要約です。当サイトはアフィリエイト広告（A8.net）を利用しています。入札参加の際は必ず発注機関の公告原文をご確認ください。</footer>
+<footer>関連サイト：<a href="https://djyosk-bot.github.io/tokai-hojokin/">東海の補助金・助成金まとめ</a><br>最終更新 2026年11月17日 22:20（毎日自動更新）。出典：官公需情報ポータルサイト（中小企業庁）。掲載内容は要約です。当サイトはアフィリエイト広告（A8.net）を利用しています。入札参加の際は必ず発注機関の公告原文をご確認ください。</footer>
 </main></body></html>

diff --git a/c/aichi_e2739112.html b/c/aichi_e2739112.html
@@ -16,7 +16,7 @@ footer{font-size:11px;color:#7a8394;margin:30px 0}</style><meta property="og:typ
 <div class="sub"><a href="../index.html">東海の入札まとめ</a> › <a href="../aichi.html">愛知県</a></div>
 <h1>大府市の入札・公募情報【毎日更新】</h1>
 <img class="hero" src="aichi_e2739112.jpg" alt="大府市の入札" width="1200" height="630" loading="eager">
-<div class="sub">愛知県大府市で直近30日に公告された案件 7件</div>
+<div class="sub">愛知県大府市の入札情報（市役所の工事の入札予定＋国の機関などの公告）</div>
 <div class="ad"><b>広告</b>入札参加・技術者の配置に：<div>・<a href="https://px.a8.net/svt/ejp?a8mat=4BGNCK+DKSWFM+4ASS+64RJ6" rel="nofollow">施工管理技士の受験対策 通信講座（独学サポート事務局）</a> <img border="0" width="1" height="1" src="https://www14.a8.net/0.gif?a8mat=4BGNCK+DKSWFM+4ASS+64RJ6" alt="">（1級・2級の土木・建築・電気・管工事に対応）</div></div>
 <div class="it"><span class="tag tその他">その他</span><a href="https://www.ncgg.go.jp/ncgg-chotatsu/documents/20261109.pdf" rel="nofollow noopener" target="_blank">国立長寿医療研究センター構内で使用するガス供給契約</a><div class="meta">国立研究開発法人国立長寿医療研究センター｜公告 2026-11-11</div></div>
 <div class="it"><span class="tag t役務">役務</span><a href="https://www.ncgg.go.jp/ncgg-chotatsu/documents/20261030-1.pdf" rel="nofollow noopener" target="_blank">液体窒素凍結保存容器一式オーバーホール及び定期点検業務委託契約</a><div class="meta">国立研究開発法人国立長寿医療研究センター｜公告 2026-10-30</div></div>
@@ -26,5 +26,5 @@ footer{font-size:11px;color:#7a8394;margin:30px 0}</style><meta property="og:typ
 <div class="it"><span class="tag t役務">役務</span><a href="https://www.ncgg.go.jp/ncgg-chotatsu/documents/20261023-01.pdf" rel="nofollow noopener" target="_blank">血清ＢＤＮＦ測定業務委託契約</a><div class="meta">国立研究開発法人国立長寿医療研究センター｜公告 2026-10-23</div></div>
 <div class="it"><span class="tag t物品">物品</span><a href="https://www.ncgg.go.jp/ncgg-chotatsu/documents/2026102202.pdf" rel="nofollow noopener" target="_blank">包括的エネルギー供給システム 一式 購入契約</a><div class="meta">国立研究開発法人国立長寿医療研究センター｜公告 2026-10-22</div></div>
 <div class="bn"><div class="bnl">広告</div><a href="https://px.a8.net/svt/ejp?a8mat=4BGNCK+DKSWFM+4ASS+6D4GH" rel="nofollow"> <img border="0" width="300" height="250" alt="" src="https://www20.a8.net/svt/bgt?aid=261117236821&wid=001&eno=01&mid=s00000020062001069000&mc=1"></a> <img border="0" width="1" height="1" src="https://www12.a8.net/0.gif?a8mat=4BGNCK+DKSWFM+4ASS+6D4GH" alt=""></div>
-<footer>関連サイト：<a href="https://djyosk-bot.github.io/tokai-hojokin/">東海の補助金・助成金まとめ</a><br>最終更新 2026年11月17日 22:08（毎日自動更新）。出典：官公需情報ポータルサイト（中小企業庁）。掲載内容は要約です。当サイトはアフィリエイト広告（A8.net）を利用しています。入札参加の際は必ず発注機関の公告原文をご確認ください。</footer>
+<footer>関連サイト：<a href="https://djyosk-bot.github.io/tokai-hojokin/">東海の補助金・助成金まとめ</a><br>最終更新 2026年11月17日 22:20（毎日自動更新）。出典：官公需情報ポータルサイト（中小企業庁）。掲載内容は要約です。当サイトはアフィリエイト広告（A8.net）を利用しています。入札参加の際は必ず発注機関の公告原文をご確認ください。</footer>
 </main></body></html>

diff --git a/c/gifu_2fd7bf24.html b/c/gifu_2fd7bf24.html
@@ -16,7 +16,7 @@ footer{font-size:11px;color:#7a8394;margin:30px 0}</style><meta property="og:typ
 <div class="sub"><a href="../index.html">東海の入札まとめ</a> › <a href="../gifu.html">岐阜県</a></div>
 <h1>恵那市の入札・公募情報【毎日更新】</h1>
 <img class="hero" src="gifu_2fd7bf24.jpg" alt="恵那市の入札" width="1200" height="630" loading="eager">
-<div class="sub">岐阜県恵那市で直近30日に公告された案件 14件</div>
+<div class="sub">岐阜県恵那市の入札情報（市役所の工事の入札予定＋国の機関などの公告）</div>
 <div class="ad"><b>広告</b>入札参加・技術者の配置に：<div>・<a href="https://px.a8.net/svt/ejp?a8mat=4BGNCK+DKSWFM+4ASS+64RJ6" rel="nofollow">施工管理技士の受験対策 通信講座（独学サポート事務局）</a> <img border="0" width="1" height="1" src="https://www14.a8.net/0.gif?a8mat=4BGNCK+DKSWFM+4ASS+64RJ6" alt="">（1級・2級の土木・建築・電気・管工事に対応）</div></div>
 <div class="it"><span class="tag t工事">工事</span><a href="https://www.city.ena.lg.jp/material/files/group/3/20261111tokai2.zip" rel="nofollow noopener" target="_blank">契土開第2号 恵那西工業団地C区画法面復旧工事 (圧縮ファイル: 2.7MB)</a><div class="meta">岐阜県恵那市｜公告 2026-11-11</div></div>
 <div class="it"><span class="tag t工事">工事</span><a href="https://www.city.ena.lg.jp/material/files/group/3/20261111syoukann55.zip" rel="nofollow noopener" target="_blank">契商観第55号 恵那駅前東トイレ改修工事 (圧縮ファイル: 2.8MB)</a><div class="meta">岐阜県恵那市｜公告 2026-11-11</div></div>
@@ -33,5 +33,5 @@ footer{font-size:11px;color:#7a8394;margin:30px 0}</style><meta property="og:typ
 <div class="it"><span class="tag t工事">工事</span><a href="https://www.city.ena.lg.jp/material/files/group/3/20261021kouge22.zip" rel="nofollow noopener" target="_blank">契公下第22号 奥戸処理区マンホール内止水工事 (圧縮ファイル: 18.0MB)</a><div class="meta">岐阜県恵那市｜公告 2026-10-21</div></div>
 <div class="it"><span class="tag t工事">工事</span><a href="https://www.city.ena.lg.jp/material/files/group/3/20261021kensetu158.zip" rel="nofollow noopener" target="_blank">契建設第158号 長島町86号線他側溝改修工事 (圧縮ファイル: 3.5MB)</a><div class="meta">岐阜県恵那市｜公告 2026-10-21</div></div>
 <div class="bn"><div class="bnl">広告</div><a href="https://px.a8.net/svt/ejp?a8mat=4BGNCK+DKSWFM+4ASS+6D4GH" rel="nofollow"> <img border="0" width="300" height="250" alt="" src="https://www20.a8.net/svt/bgt?aid=261117236821&wid=001&eno=01&mid=s00000020062001069000&mc=1"></a> <img border="0" width="1" height="1" src="https://www12.a8.net/0.gif?a8mat=4BGNCK+DKSWFM+4ASS+6D4GH" alt=""></div>
-<footer>関連サイト：<a href="https://djyosk-bot.github.io/tokai-hojokin/">東海の補助金・助成金まとめ</a><br>最終更新 2026年11月17日 22:08（毎日自動更新）。出典：官公需情報ポータルサイト（中小企業庁）。掲載内容は要約です。当サイトはアフィリエイト広告（A8.net）を利用しています。入札参加の際は必ず発注機関の公告原文をご確認ください。</footer>
+<footer>関連サイト：<a href="https://djyosk-bot.github.io/tokai-hojokin/">東海の補助金・助成金まとめ</a><br>最終更新 2026年11月17日 22:20（毎日自動更新）。出典：官公需情報ポータルサイト（中小企業庁）。掲載内容は要約です。当サイトはアフィリエイト広告（A8.net）を利用しています。入札参加の際は必ず発注機関の公告原文をご確認ください。</footer>
 </main></body></html>

diff --git a/c/gifu_670f76b7.html b/c/gifu_670f76b7.html
@@ -16,7 +16,7 @@ footer{font-size:11px;color:#7a8394;margin:30px 0}</style><meta property="og:typ
 <div class="sub"><a href="../index.html">東海の入札まとめ</a> › <a href="../gifu.html">岐阜県</a></div>
 <h1>高山市の入札・公募情報【毎日更新】</h1>
 <img class="hero" src="gifu_670f76b7.jpg" alt="高山市の入札" width="1200" height="630" loading="eager">
-<div class="sub">岐阜県高山市で直近30日に公告された案件 5件</div>
+<div class="sub">岐阜県高山市の入札情報（市役所の工事の入札予定＋国の機関などの公告）</div>
 <div class="ad"><b>広告</b>入札参加・技術者の配置に：<div>・<a href="https://px.a8.net/svt/ejp?a8mat=4BGNCK+DKSWFM+4ASS+64RJ6" rel="nofollow">施工管理技士の受験対策 通信講座（独学サポート事務局）</a> <img border="0" width="1" height="1" src="https://www14.a8.net/0.gif?a8mat=4BGNCK+DKSWFM+4ASS+64RJ6" alt="">（1級・2級の土木・建築・電気・管工事に対応）</div></div>
 <div class="it"><span class="tag t工事">工事</span><a href="https://www.city.takayama.lg.jp/_res/projects/default_project/_page_/001/024/034/08keni171.pdf" rel="nofollow noopener" target="_blank">08建維第171号河川浚渫（内垣内谷川）工事</a><div class="meta">岐阜県高山市｜公告 2026-11-16</div></div>
 <div class="it"><span class="tag t工事">工事</span><a href="https://www.city.takayama.lg.jp/_res/projects/default_project/_page_/001/024/034/08suijyou113.pdf" rel="nofollow noopener" target="_blank">08水上第113号瓜巣配水区他減圧弁更新工事</a><div class="meta">岐阜県高山市｜公告 2026-11-16</div></div>
@@ -24,5 +24,5 @@ footer{font-size:11px;color:#7a8394;margin:30px 0}</style><meta property="og:typ
 <div class="it"><span class="tag t工事">工事</span><a href="https://www.city.takayama.lg.jp/_res/projects/default_project/_page_/001/024/012/08sisei35.pdf" rel="nofollow noopener" target="_blank">08市生第35号高山市図書館「煥章館」吸収冷温水機改修工事</a><div class="meta">岐阜県高山市｜公告 2026-11-02</div></div>
 <div class="it"><span class="tag t工事">工事</span><a href="https://www.city.takayama.lg.jp/_res/projects/default_project/_page_/001/024/012/08keni165.pdf" rel="nofollow noopener" target="_blank">08建維第165号市道三福寺10号線他側溝修繕工事</a><div class="meta">岐阜県高山市｜公告 2026-11-02</div></div>
 <div class="bn"><div class="bnl">広告</div><a href="https://px.a8.net/svt/ejp?a8mat=4BGNCK+DKSWFM+4ASS+6D4GH" rel="nofollow"> <img border="0" width="300" height="250" alt="" src="https://www20.a8.net/svt/bgt?aid=261117236821&wid=001&eno=01&mid=s00000020062001069000&mc=1"></a> <img border="0" width="1" height="1" src="https://www12.a8.net/0.gif?a8mat=4BGNCK+DKSWFM+4ASS+6D4GH" alt=""></div>
-<footer>関連サイト：<a href="https://djyosk-bot.github.io/tokai-hojokin/">東海の補助金・助成金まとめ</a><br>最終更新 2026年11月17日 22:08（毎日自動更新）。出典：官公需情報ポータルサイト（中小企業庁）。掲載内容は要約です。当サイトはアフィリエイト広告（A8.net）を利用しています。入札参加の際は必ず発注機関の公告原文をご確認ください。</footer>
+<footer>関連サイト：<a href="https://djyosk-bot.github.io/tokai-hojokin/">東海の補助金・助成金まとめ</a><br>最終更新 2026年11月17日 22:20（毎日自動更新）。出典：官公需情報ポータルサイト（中小企業庁）。掲載内容は要約です。当サイトはアフィリエイト広告（A8.net）を利用しています。入札参加の際は必ず発注機関の公告原文をご確認ください。</footer>
 </main></body></html>
